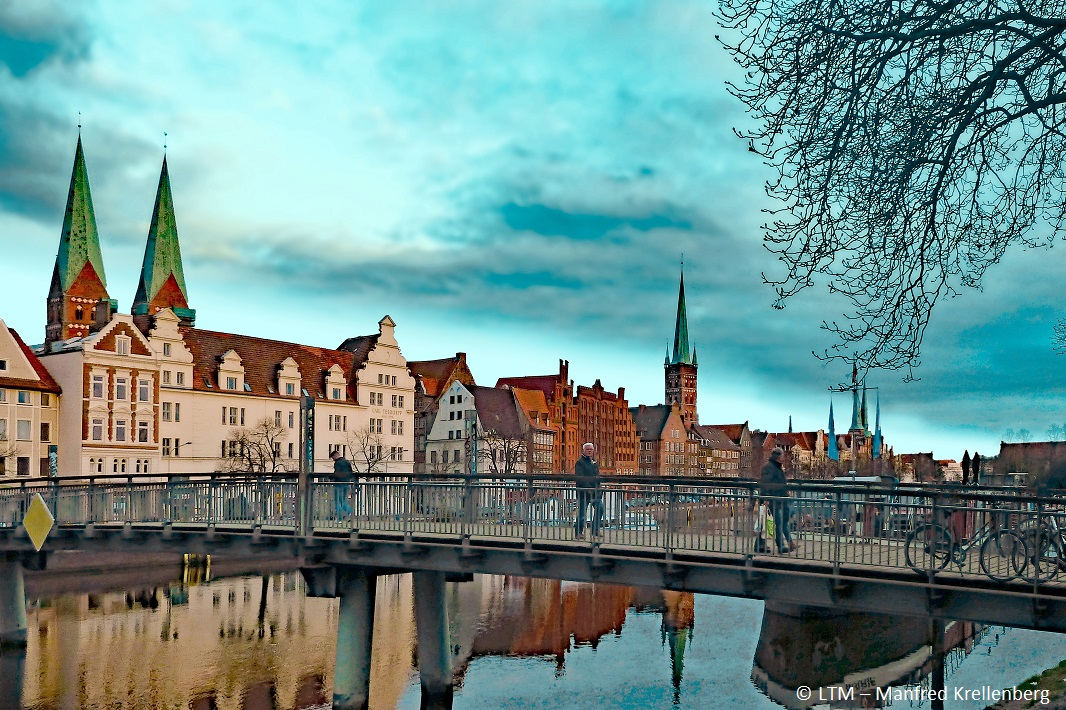
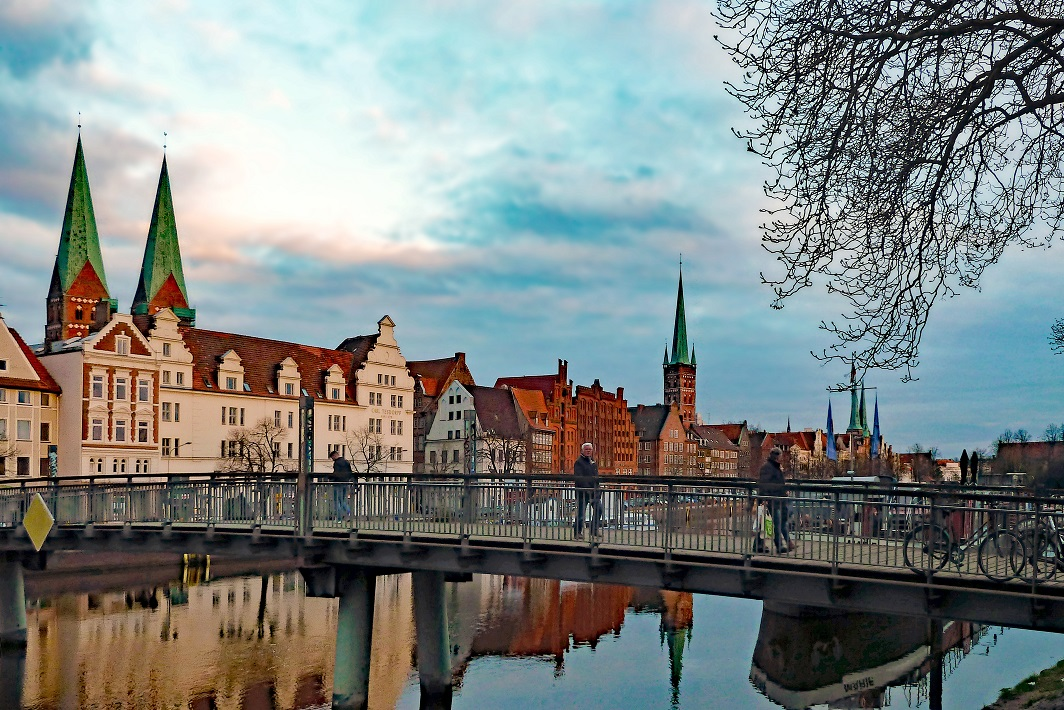
Updated image on sponsorship page, added credits

diff --git a/pages/sponsorship-packages.md b/pages/sponsorship-packages.md
@@ -5,9 +5,8 @@ page_class: "sponsors"
 
 # Sponsorship Packages
 
-<p class="primary-photo centered">
-    <img alt="City of Lübeck" src="/images/muk_bruecke.jpg">
-</p>
+![Bridge to MuK](/images/muk_bruecke.jpg)
+<span class="credits">&copy; LTM - Manfred Krellenberg</span>	
 
 Please make inquiries about sponsorship packages to [sponsor@2021.midl.io](mailto:sponsor@2021.midl.io). 
 
